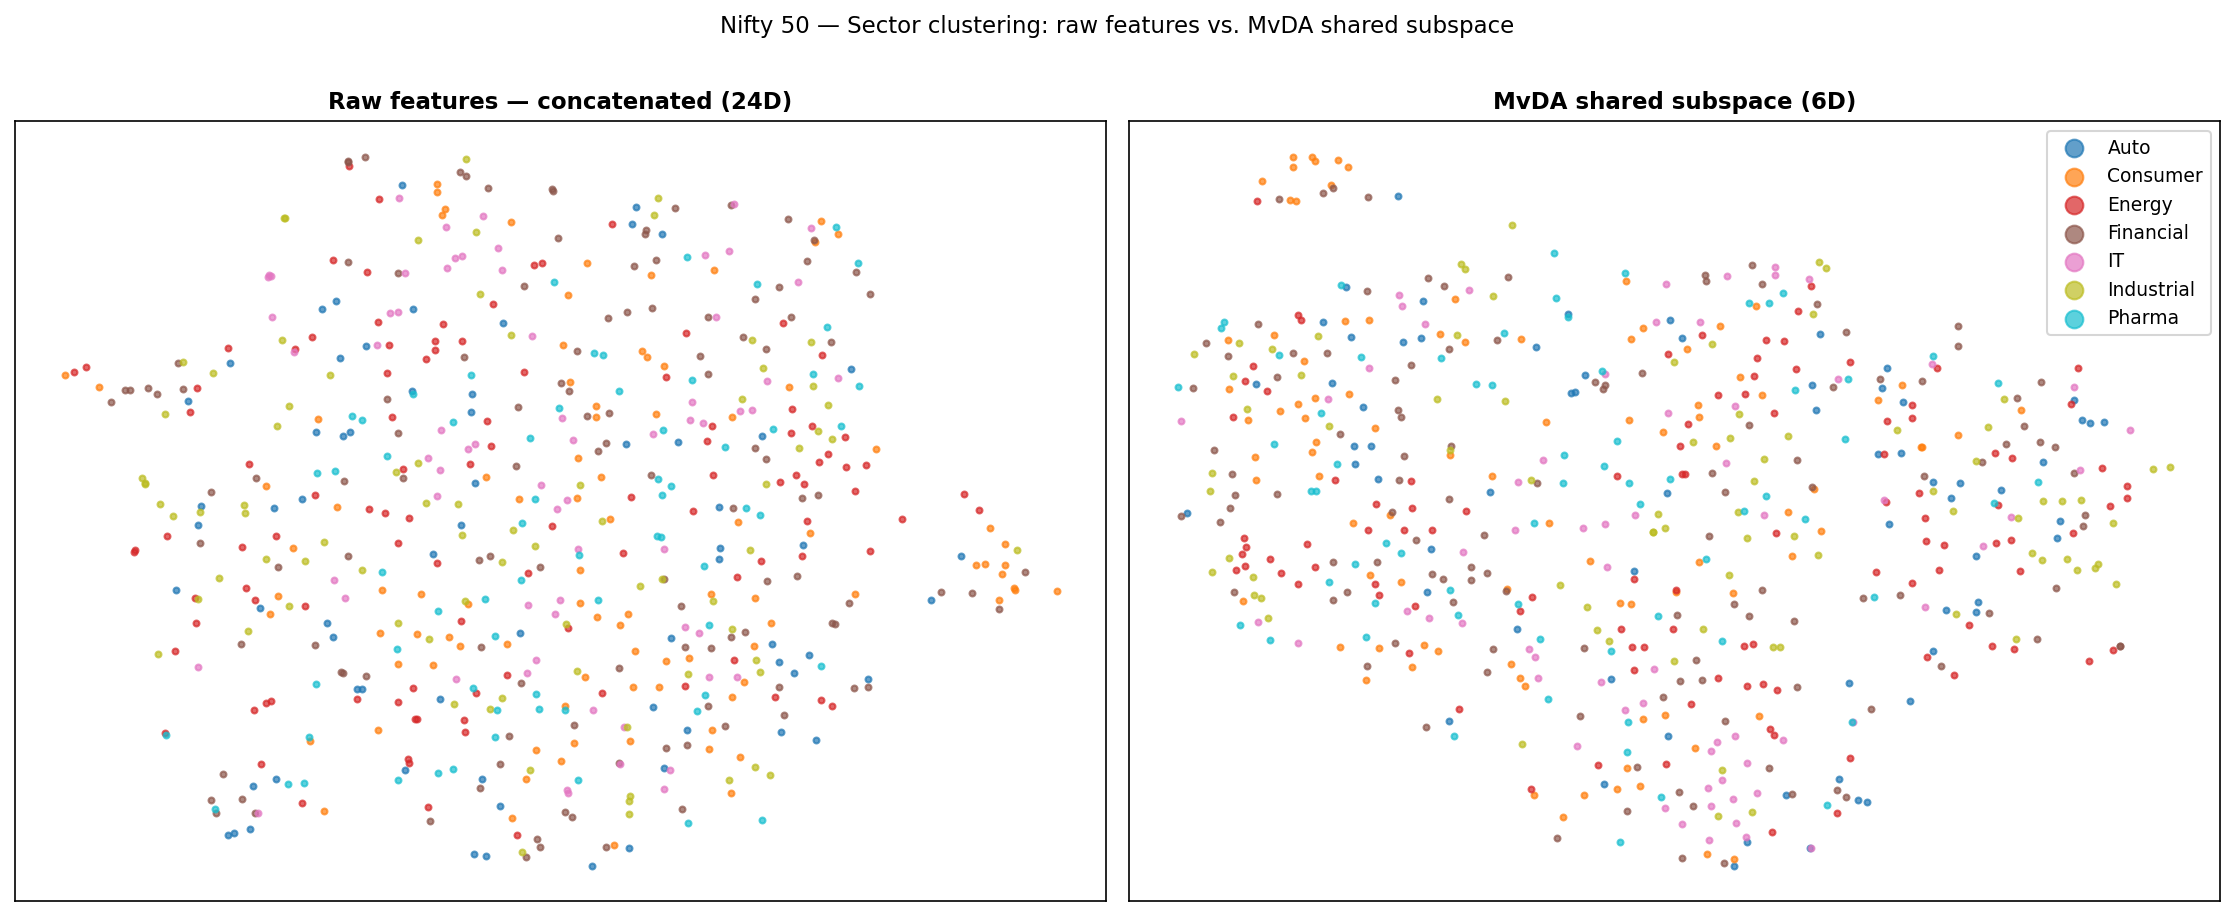
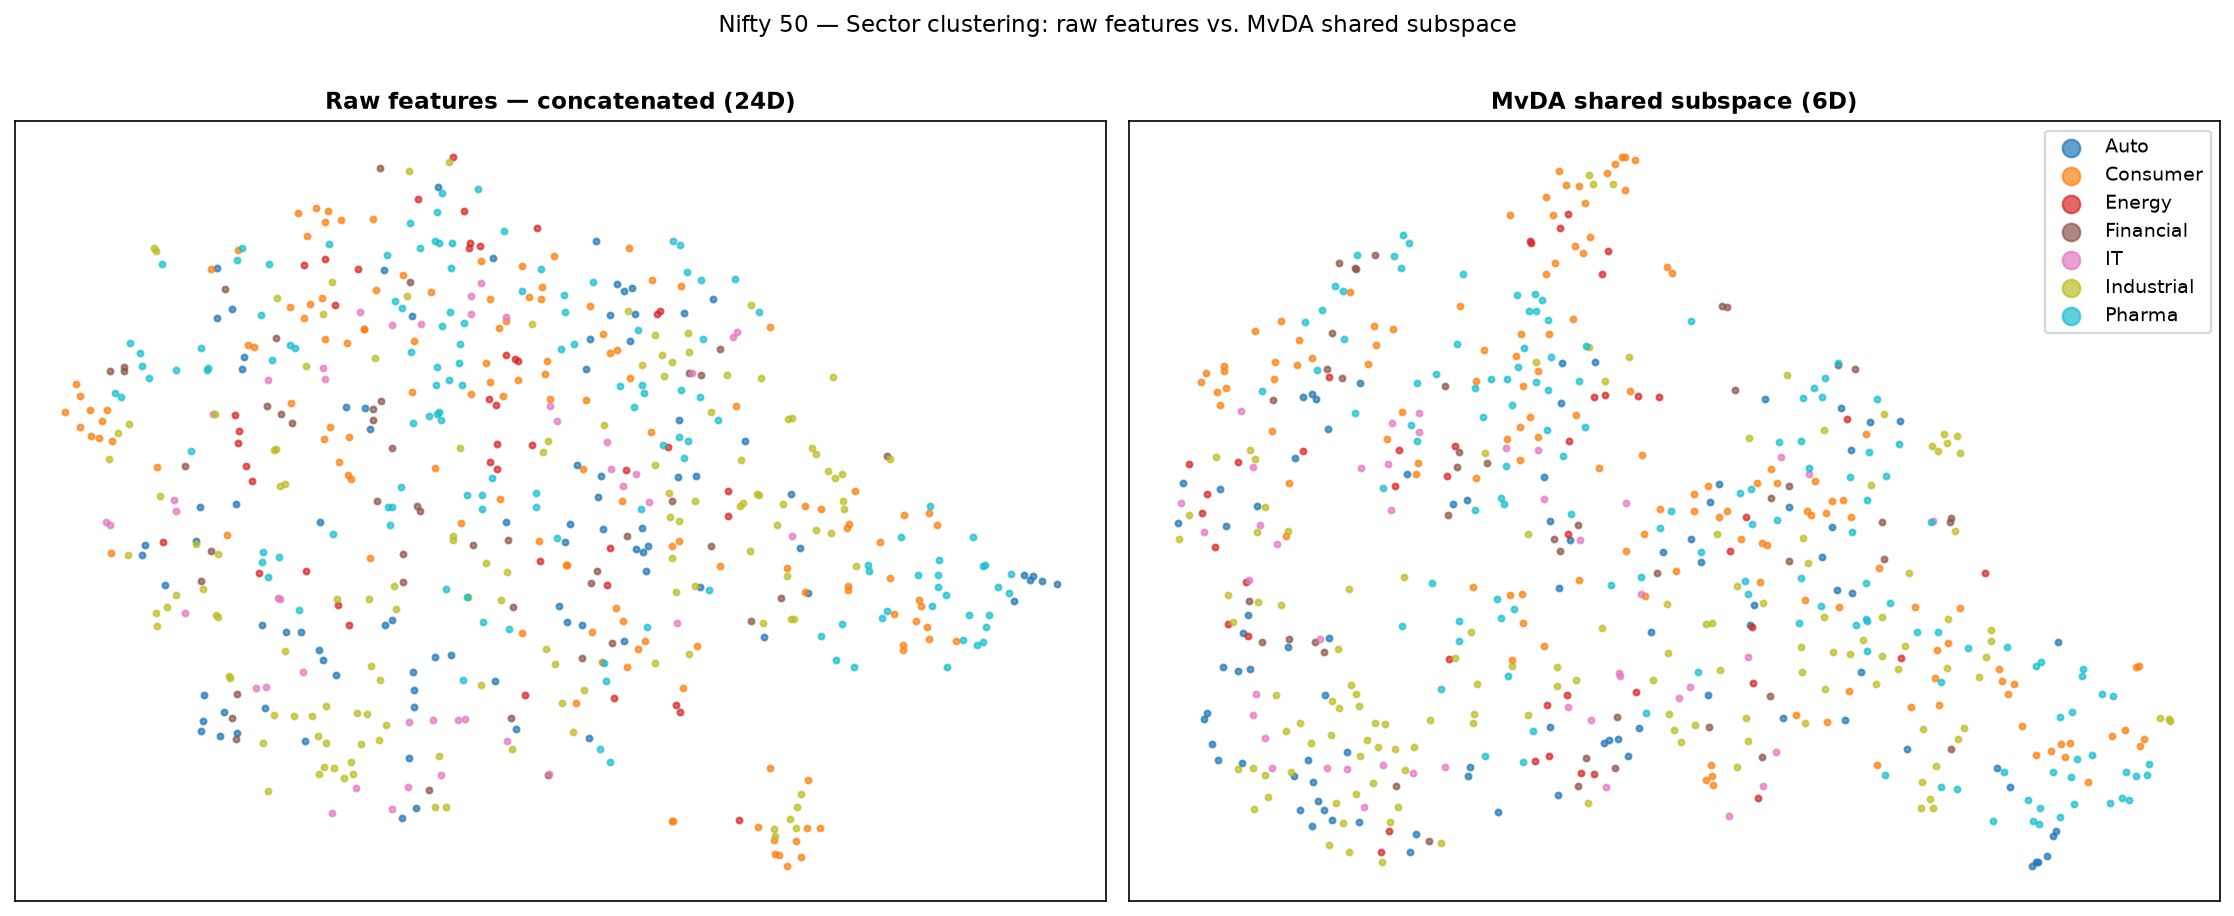
Enhance Nifty 50 sector classification with detailed evaluation splits and updated dataset handling

diff --git a/experiments/nifty50_sector.py b/experiments/nifty50_sector.py
@@ -32,7 +32,7 @@ import numpy as np
 from scipy import stats
 from sklearn.discriminant_analysis import LinearDiscriminantAnalysis
 from sklearn.ensemble import RandomForestClassifier
-from sklearn.model_selection import StratifiedShuffleSplit
+from sklearn.model_selection import GroupShuffleSplit, StratifiedShuffleSplit
 from sklearn.neural_network import MLPClassifier
 from sklearn.preprocessing import LabelEncoder, RobustScaler
 from sklearn.svm import SVC
@@ -159,6 +159,8 @@ def build_dataset(period: str = "2y"):
 
     all_views: list[list[np.ndarray]] = [[] for _ in range(4)]
     all_labels: list[str] = []
+    all_tickers: list[str] = []
+    all_dates: list[np.datetime64] = []
 
     for sector, tickers in NIFTY50_SECTORS.items():
         sector_count = 0
@@ -170,6 +172,7 @@ def build_dataset(period: str = "2y"):
                     continue
                 close  = df["Close"].ffill().values.flatten()
                 volume = df["Volume"].ffill().values.flatten()
+                dates  = df.index.values
             except Exception:
                 continue
 
@@ -181,6 +184,8 @@ def build_dataset(period: str = "2y"):
                 for v_idx, feat in enumerate(result):
                     all_views[v_idx].append(feat)
                 all_labels.append(sector)
+                all_tickers.append(ticker)
+                all_dates.append(dates[end - 1])
                 sector_count += 1
 
         print(f"  {sector:<12} {sector_count:>4} windows from {len(tickers)} stocks")
@@ -190,74 +195,121 @@ def build_dataset(period: str = "2y"):
 
     views = [np.vstack(all_views[i]) for i in range(4)]
     labels = np.array(all_labels)
-    return views, labels
+    tickers = np.array(all_tickers)
+    dates = np.array(all_dates, dtype="datetime64[D]")
+    return views, labels, tickers, dates
+
+
+# ------------------------------------------------------------------ splits --
+def make_splits(views: list[np.ndarray], y: np.ndarray, tickers: np.ndarray,
+                 dates: np.ndarray) -> dict[str, tuple[np.ndarray, np.ndarray]]:
+    """Three evaluation splits, from most to least optimistic.
+
+    Windows are built with WINDOW=63 / STRIDE=10, i.e. consecutive windows for
+    the same stock overlap by ~84% of their days. A naive random split over
+    pooled windows puts near-duplicate windows on both sides, and never forces
+    the model to see a stock it hasn't already trained on -- so it can "solve"
+    the task by memorizing per-ticker signatures instead of learning
+    transferable sector behaviour. The other two splits close those holes.
+    """
+    n = len(y)
+    idx = np.arange(n)
+    splits = {}
+
+    # 1) Naive: random 70/30 over pooled, overlapping windows (the original
+    #    methodology -- kept only as a reference point for how much the other
+    #    two splits cost).
+    sss = StratifiedShuffleSplit(n_splits=1, test_size=0.30, random_state=0)
+    splits["naive random (overlapping windows -- leaked)"] = next(sss.split(views[0], y))
+
+    # 2) Grouped: leave whole stocks out, so test tickers are never seen in
+    #    training. Kills the "memorize the ticker" shortcut.
+    gss = GroupShuffleSplit(n_splits=1, test_size=0.30, random_state=0)
+    splits["grouped (leave-stocks-out)"] = next(gss.split(views[0], y, groups=tickers))
+
+    # 3) Chronological: train on the earliest ~70% of dates, test on the
+    #    latest ~30%, per the global timeline. Kills within-ticker
+    #    train/test overlap (train windows always end before test windows)
+    #    and answers the practically relevant question: does this generalize
+    #    forward in time?
+    cutoff = np.quantile(dates.astype("int64"), 0.70)
+    tr_mask = dates.astype("int64") <= cutoff
+    splits["chronological (train past, test future)"] = (idx[tr_mask], idx[~tr_mask])
+
+    return splits
 
 
 # ------------------------------------------------------------------- train --
-def run(views: list[np.ndarray], labels: np.ndarray):
+def run(views: list[np.ndarray], labels: np.ndarray, tickers: np.ndarray, dates: np.ndarray):
     le = LabelEncoder()
     y = le.fit_transform(labels)
     n_classes = len(le.classes_)
 
-    # Stratified 70/30 split
-    sss = StratifiedShuffleSplit(n_splits=1, test_size=0.30, random_state=0)
-    tr_idx, te_idx = next(sss.split(views[0], y))
-
-    Xtr = [v[tr_idx] for v in views]
-    Xte = [v[te_idx] for v in views]
-    ytr, yte = y[tr_idx], y[te_idx]
-
-    # Per-view scaling
-    scalers = [RobustScaler().fit(X) for X in Xtr]
-    Xtr = [s.transform(X) for s, X in zip(scalers, Xtr)]
-    Xte = [s.transform(X) for s, X in zip(scalers, Xte)]
-
-    Xtr_cat = np.hstack(Xtr)
-    Xte_cat = np.hstack(Xte)
-
     def acc(yt, yp):
         return classification_report_from_cm(confusion(yt, yp))["accuracy"] * 100
 
-    rows = []
+    splits = make_splits(views, y, tickers, dates)
+    all_rows: dict[str, list[tuple[str, str, float]]] = {}
+    plot_ctx = None
 
-    # Baselines on concatenated features
-    for name, clf in [
-        ("Random Forest",   RandomForestClassifier(200, random_state=0, n_jobs=-1)),
-        ("SVM (RBF)",       SVC(C=10, gamma="scale", random_state=0)),
-        ("MLP",             MLPClassifier((256, 128), max_iter=500, random_state=0)),
-    ]:
-        clf.fit(Xtr_cat, ytr)
-        rows.append((name, "concat", acc(yte, clf.predict(Xte_cat))))
+    for split_name, (tr_idx, te_idx) in splits.items():
+        Xtr = [v[tr_idx] for v in views]
+        Xte = [v[te_idx] for v in views]
+        ytr, yte = y[tr_idx], y[te_idx]
 
-    # Best single-view LDA
-    best_v_acc, best_v_name = 0.0, ""
-    view_names = ["Returns", "Volatility", "Technical", "Volume"]
-    for vi, (Xv, Xtv) in enumerate(zip(Xtr, Xte)):
-        k = min(n_classes - 1, Xv.shape[1] - 1)
-        lda = LinearDiscriminantAnalysis(n_components=max(1, k)).fit(Xv, ytr)
-        a = acc(yte, lda.predict(Xtv))
-        if a > best_v_acc:
-            best_v_acc, best_v_name = a, view_names[vi]
-    rows.append((f"Single-view LDA ({best_v_name})", "1 view", best_v_acc))
+        # Per-view scaling (fit on train only)
+        scalers = [RobustScaler().fit(X) for X in Xtr]
+        Xtr = [s.transform(X) for s, X in zip(scalers, Xtr)]
+        Xte = [s.transform(X) for s, X in zip(scalers, Xte)]
 
-    # Multi-view fusion
-    mvlda = MultiViewLDA(mode="mvda", solver="ratio").fit(Xtr, ytr)
-    rows.append(("MvDA + NCM (cosine)", "4 views fused",
-                 acc(yte, NearestClassMean(mvlda, metric="cosine").predict(Xte))))
+        Xtr_cat = np.hstack(Xtr)
+        Xte_cat = np.hstack(Xte)
 
-    mvlda_c = MultiViewLDA(mode="concat", solver="ratio").fit(Xtr, ytr)
-    ens = MvdaEnsemble(mvlda_c).fit(Xtr, ytr)
-    rows.append(("Concat-LDA + Ensemble", "4 views fused", acc(yte, ens.predict(Xte))))
+        rows = []
 
-    # Print results
-    print(f"\n{'Method':<32}{'Input':<18}{'Test Acc':>10}")
-    print("-" * 62)
-    for name, inp, a in rows:
-        print(f"{name:<32}{inp:<18}{a:>9.2f}%")
+        # Baselines on concatenated features
+        for name, clf in [
+            ("Random Forest",   RandomForestClassifier(200, random_state=0, n_jobs=-1)),
+            ("SVM (RBF)",       SVC(C=10, gamma="scale", random_state=0)),
+            ("MLP",             MLPClassifier((256, 128), max_iter=500, random_state=0)),
+        ]:
+            clf.fit(Xtr_cat, ytr)
+            rows.append((name, "concat", acc(yte, clf.predict(Xte_cat))))
 
-    # t-SNE visualization
+        # Best single-view LDA
+        best_v_acc, best_v_name = 0.0, ""
+        view_names = ["Returns", "Volatility", "Technical", "Volume"]
+        for vi, (Xv, Xtv) in enumerate(zip(Xtr, Xte)):
+            k = min(n_classes - 1, Xv.shape[1] - 1)
+            lda = LinearDiscriminantAnalysis(n_components=max(1, k)).fit(Xv, ytr)
+            a = acc(yte, lda.predict(Xtv))
+            if a > best_v_acc:
+                best_v_acc, best_v_name = a, view_names[vi]
+        rows.append((f"Single-view LDA ({best_v_name})", "1 view", best_v_acc))
+
+        # Multi-view fusion
+        mvlda = MultiViewLDA(mode="mvda", solver="ratio").fit(Xtr, ytr)
+        rows.append(("MvDA + NCM (cosine)", "4 views fused",
+                     acc(yte, NearestClassMean(mvlda, metric="cosine").predict(Xte))))
+
+        mvlda_c = MultiViewLDA(mode="concat", solver="ratio").fit(Xtr, ytr)
+        ens = MvdaEnsemble(mvlda_c).fit(Xtr, ytr)
+        rows.append(("Concat-LDA + Ensemble", "4 views fused", acc(yte, ens.predict(Xte))))
+
+        all_rows[split_name] = rows
+        if split_name.startswith("grouped"):
+            plot_ctx = (Xte, yte, mvlda)
+
+        print(f"\n=== {split_name} ===")
+        print(f"{'Method':<32}{'Input':<18}{'Test Acc':>10}")
+        print("-" * 62)
+        for name, inp, a in rows:
+            print(f"{name:<32}{inp:<18}{a:>9.2f}%")
+
+    # t-SNE visualization on the honest (leave-stocks-out) split
+    Xte, yte, mvlda = plot_ctx
     _plot_tsne(Xte, yte, mvlda, le)
-    return rows
+    return all_rows
 
 
 # -------------------------------------------------------------------- plot --
@@ -302,22 +354,22 @@ def _plot_tsne(Xte, yte, mvlda, le):
     out = os.path.join(_ROOT, "results", "nifty50_sectors.png")
     os.makedirs(os.path.dirname(out), exist_ok=True)
     fig.savefig(out, dpi=150, bbox_inches="tight")
-    print(f"Saved → {out}")
+    print(f"Saved -> {out}")
 
 
 # ---------------------------------------------------------------------- main --
 def main():
     print("Downloading Nifty 50 data (2 years) ...")
-    views, labels = build_dataset(period="2y")
+    views, labels, tickers, dates = build_dataset(period="2y")
 
     unique, counts = np.unique(labels, return_counts=True)
-    print(f"\nDataset: {len(labels)} windows | {len(unique)} sectors")
+    print(f"\nDataset: {len(labels)} windows | {len(unique)} sectors | {len(np.unique(tickers))} stocks")
     for s, c in zip(unique, counts):
         print(f"  {s:<12} {c:>4} windows")
 
     print(f"\nFeature dims: {[v.shape[1] for v in views]} across 4 views")
-    print("\nTraining multi-view sector classifier ...")
-    run(views, labels)
+    print("\nTraining multi-view sector classifier under three evaluation splits ...")
+    run(views, labels, tickers, dates)
 
 
 if __name__ == "__main__":

diff --git a/README.md b/README.md
@@ -10,11 +10,21 @@ digit recognition, and cross-pose face recognition.
 
 ### Nifty 50 — Sector classification (price/volume only, no company identity)
 
-| Method | Accuracy |
-|---|---:|
-| Random baseline | 14.3% |
-| Linear fusion (VEDA) | 31.31% |
-| Random Forest | **47.98%** |
+Windows are 63 trading days with a 10-day stride, so consecutive windows for
+the same stock overlap by ~84%. A naive random train/test split lets
+near-duplicate windows and previously-seen tickers leak across the split,
+inflating accuracy. Reporting all three splits, least to most honest:
+
+| Split | Best method | Accuracy | vs. 14.3% random baseline |
+|---|---|---:|---:|
+| Naive random (overlapping windows, tickers seen in both train/test) | Random Forest | 48.15% | 3.4x |
+| Grouped — leave stocks out | MLP | 30.52% | 2.1x |
+| Chronological — train past, test future | Random Forest | 25.81% | 1.8x |
+
+The honest, generalizable result is **~1.8–2.1x random**, not the naive
+split's 3.4x — the gap is the model partly memorizing per-ticker signatures
+and overlapping-window duplicates rather than transferable sector behavior.
+`python experiments/nifty50_sector.py` prints all three splits.
 
 ![Nifty 50 sector t-SNE](results/nifty50_sectors.png)
 
